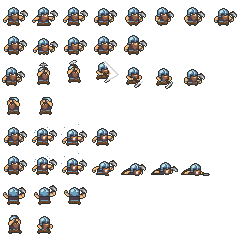
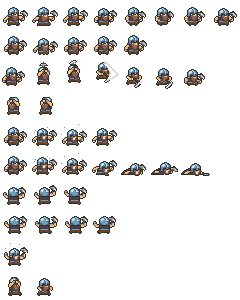
Add background stone and new moves

diff --git a/gui/godot/assets/crop_sprites.py b/gui/godot/assets/crop_sprites.py
@@ -1,4 +1,5 @@
 #!/usr/bin/python3
+#python crop_sprite.py all_blue.png blue
 import os
 import sys
 import numpy
@@ -6,6 +7,7 @@ from PIL import Image
 
 
 filename = sys.argv[1]
+path = sys.argv[2]
 timelines = [
     'move',
     'in_place',
@@ -14,6 +16,8 @@ timelines = [
     'hit',
     'die',
     'climb_vertical',
+    'climb_horizontal',
+    'fall',
     'pull_rope']
 tile_width = 30
 tile_height = 30
@@ -21,6 +25,9 @@ tile_height = 30
 
 img = Image.open(filename)
 width, height = img.size
+
+if not os.path.exists(path):
+            os.makedirs(path)
 
 for y, frame_y in enumerate(timelines):
     for x in range(100):
@@ -33,7 +40,7 @@ for y, frame_y in enumerate(timelines):
             break
 
         # Save the file
-        if not os.path.exists(timelines[y]):
-            os.makedirs(timelines[y])
+        if not os.path.exists(path+'/'+timelines[y]):
+            os.makedirs(path+'/'+timelines[y])
 
-        cropped.save(f'{timelines[y]}/{x}.png')
+        cropped.save(f'{path}/{timelines[y]}/{x}.png')
